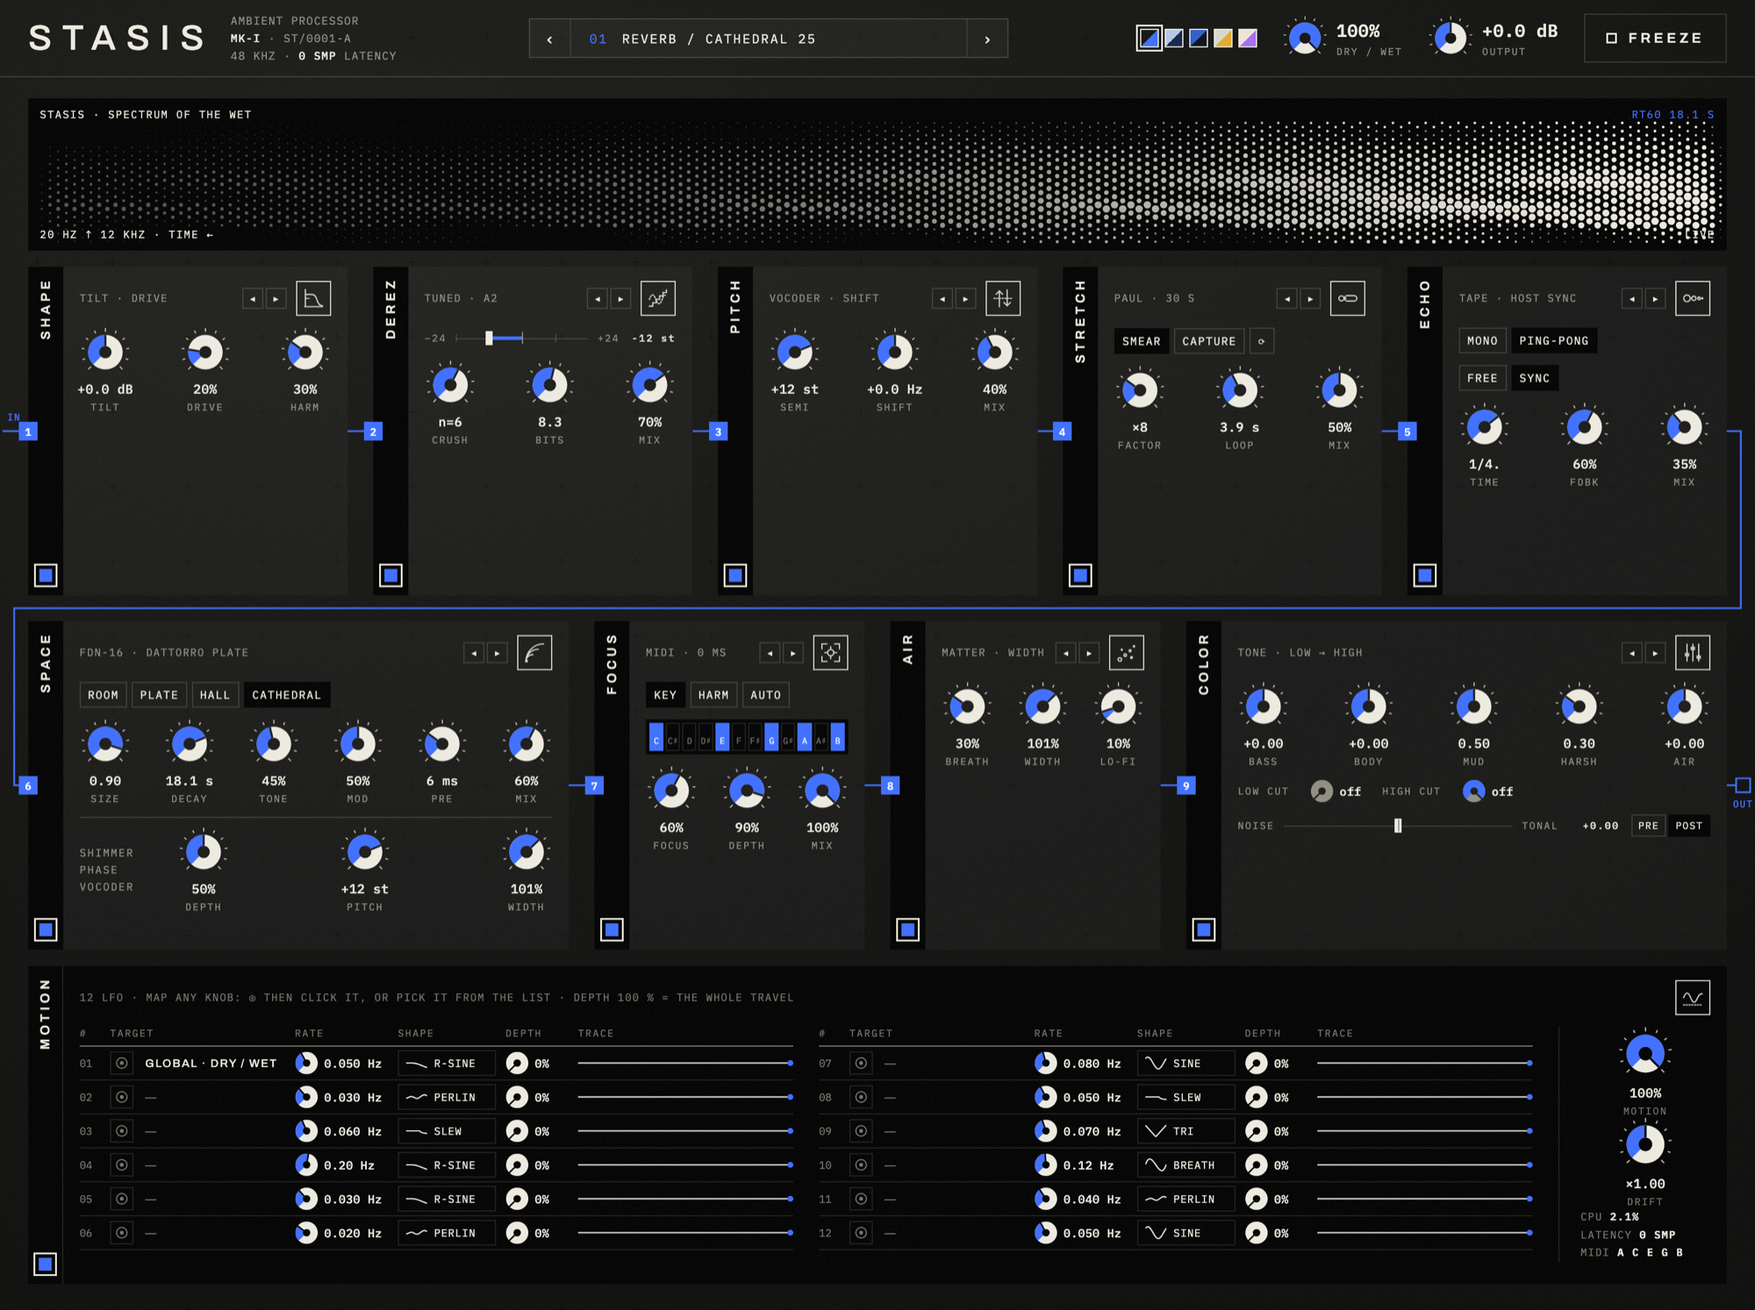
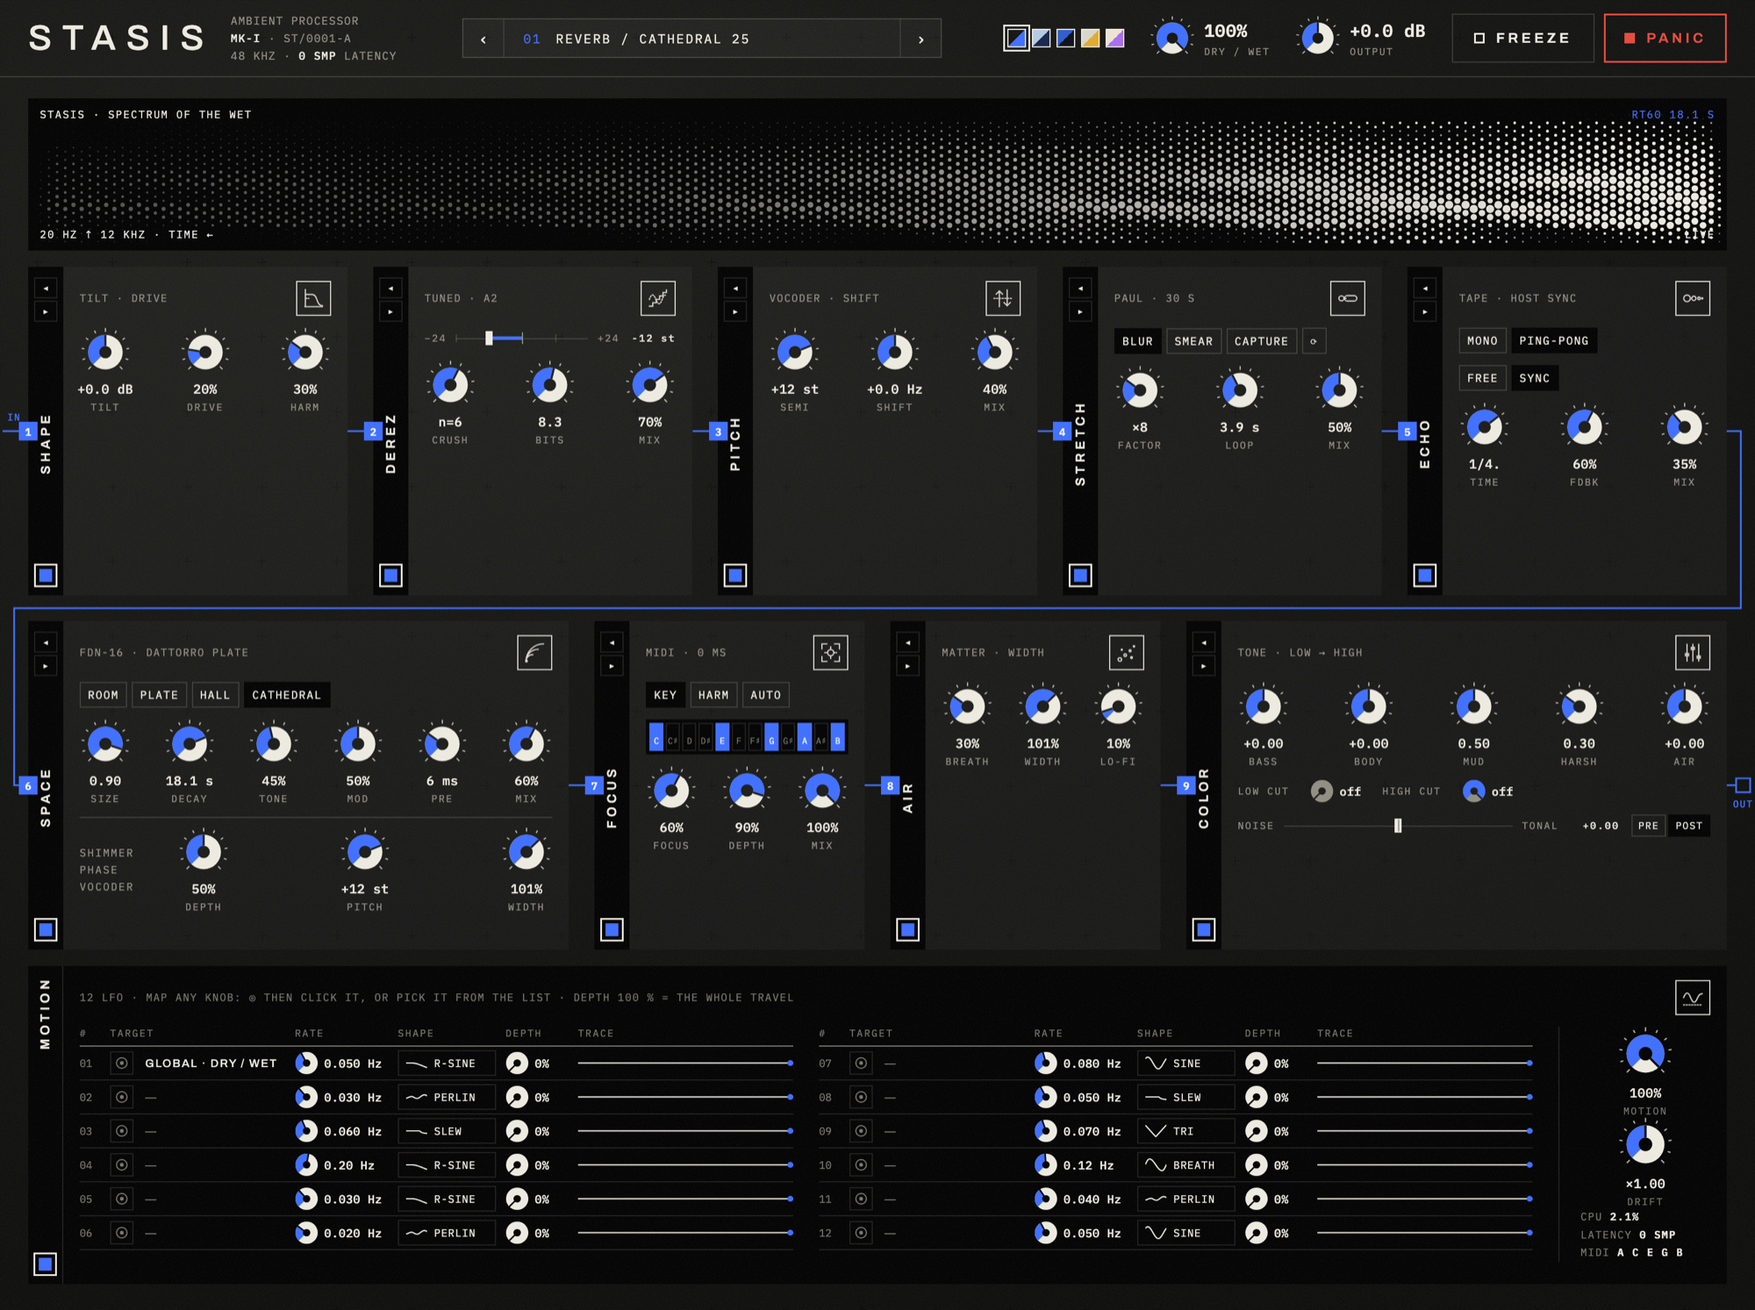
STRETCH BLUR mode, PANIC button, move arrows in the spine
- CaptureStretch BLUR (default): latest window, per-bin power averaged
  over stretch/8 s, random phases: a continuous pad of the present that
  never runs out or jumps. SMEAR and CAPTURE kept
- PANIC: releases FREEZE and rebuilds the engine (all tails, buffers,
  captures and held notes cleared); settings, order and mapping stay
- ◂ ▸ moved to the top of each module's black spine

diff --git a/design/mockup.html b/design/mockup.html
@@ -69,9 +69,10 @@ body::after { content: ""; position: fixed; inset: 0; pointer-events: none; z-in
 .card.dragging { opacity: .35; }
 .card.drop-before { box-shadow: -4px 0 0 var(--accent); }
 .card.drop-after { box-shadow: 4px 0 0 var(--accent); }
-.move { display: flex; gap: 2px; margin-left: auto; }
-.move button { width: 18px; height: 18px; border: 1px solid var(--line); background: none; color: inherit; font: inherit; font-size: 10px; cursor: pointer; line-height: 1; }
-.move button:hover { border-color: currentColor; color: var(--accent); }
+/* ◂ ▸ at the top of the black spine: move the module in the chain */
+.spine .move { display: flex; flex-direction: column; gap: 2px; }
+.spine .move button { width: 20px; height: 18px; border: 1px solid var(--dark-line); background: none; color: var(--on-dark); font: inherit; font-size: 9px; cursor: pointer; line-height: 1; padding: 0; }
+.spine .move button:hover { border-color: var(--accent); color: var(--accent); }
 
 /* ---------- header ---------- */
 /* header = a full-width band pinned to the top edge, so it reads apart from the modules */
@@ -119,6 +120,11 @@ header { display: grid; grid-template-columns: auto 1fr auto; align-items: cente
   font-family: Archivo, sans-serif; font-weight: 600; font-stretch: 100%; font-size: 12px; letter-spacing: .24em; display: flex; align-items: center; gap: 10px; }
 .freeze i { width: 9px; height: 9px; border: 1.5px solid currentColor; display: block; }
 .freeze[aria-pressed="true"] { background: var(--accent); color: var(--accent-ink); }
+/* PANIC: always the same warning red, whatever the theme */
+.panic { height: 42px; padding: 0 16px; border: 1.5px solid #E5483B; background: none; color: #E5483B; cursor: pointer; margin-left: -8px;
+  font-family: Archivo, sans-serif; font-weight: 600; font-size: 12px; letter-spacing: .24em; display: flex; align-items: center; gap: 10px; }
+.panic i { width: 9px; height: 9px; background: currentColor; display: block; }
+.panic:hover, .panic.fired { background: #E5483B; color: #fff; }
 .freeze[aria-pressed="true"] i { background: currentColor; }
 
 /* ---------- cards ---------- */
@@ -275,6 +281,7 @@ body.learning [data-mapid^="m0"], body.learning [data-mapid^="m1"], body.learnin
       <div class="themes" id="themes"></div>
       <div id="globalKnobs" style="display:flex;gap:10px"></div>
       <button class="freeze" id="freeze" aria-pressed="false"><i></i>FREEZE</button>
+      <button class="panic" id="panic" title="Emergency: silence, clear every tail and buffer"><i></i>PANIC</button>
     </div>
   </header>
 
@@ -506,7 +513,7 @@ function stretchModes() {
   const button = grab.firstChild;
   button.onclick = () => { bridge.send('stretch_grab', true); setTimeout(() => bridge.send('stretch_grab', false), 120); glitch(); };
   bridge.register('stretch_grab', 'toggle', () => {});
-  row.append(seg(['Smear', 'Capture'], 0, null, 'stretch_mode'), grab);
+  row.append(seg(['Blur', 'Smear', 'Capture'], 0, null, 'stretch_mode'), grab);
   return row;
 }
 function knobRow(list, opts) { const row = document.createElement('div'); row.className = 'knobs'; list.forEach(k => row.appendChild(knob(k, opts))); return row; }
@@ -581,7 +588,8 @@ const MODS = {
 
 function buildCard(el) {
   const mod = el.dataset.mod, m = MODS[mod], inChain = CHAIN_DEFAULT.includes(mod);
-  el.innerHTML = `<div class="spine" title="${inChain ? 'Drag to move' : ''}"><div class="label">${m.name}</div><button class="power" title="On / off"></button></div><div class="body"></div>`;
+  const arrows = inChain ? '<div class="move"><button title="Earlier in the chain">◂</button><button title="Later in the chain">▸</button></div>' : '';
+  el.innerHTML = `<div class="spine" title="${inChain ? 'Drag to move' : ''}">${arrows}<div class="label">${m.name}</div><button class="power" title="On / off"></button></div><div class="body"></div>`;
   const power = el.querySelector('.power'), powerId = mod + '_on';
   power.onclick = () => { el.classList.toggle('off'); bridge.send(powerId, !el.classList.contains('off')); };
   if (LIVE_MODS.includes(mod)) bridge.register(powerId, 'toggle', on => el.classList.toggle('off', !on));
@@ -590,11 +598,9 @@ function buildCard(el) {
   const top = document.createElement('div'); top.className = 'top';
   top.innerHTML = `<div class="code">${m.code}</div>`;
   if (inChain) {
-    const move = document.createElement('div'); move.className = 'move';
-    move.innerHTML = '<button title="Earlier in the chain">◂</button><button title="Later in the chain">▸</button>';
+    const move = el.querySelector('.spine .move');
     move.children[0].onclick = () => moveModule(mod, -1);
     move.children[1].onclick = () => moveModule(mod, +1);
-    top.append(move);
   }
   top.insertAdjacentHTML('beforeend', icon(mod));
   body.append(top);
@@ -657,7 +663,7 @@ function dragHandle(el) {
   let target = null, after = false;
   const clear = () => document.querySelectorAll('.drop-before, .drop-after').forEach(c => c.classList.remove('drop-before', 'drop-after'));
   spine.addEventListener('pointerdown', e => {
-    if (e.target.closest('.power')) return;
+    if (e.target.closest('.power, .move')) return;
     spine.setPointerCapture(e.pointerId); el.classList.add('dragging');
   });
   spine.addEventListener('pointermove', e => {
@@ -917,6 +923,14 @@ document.addEventListener('click', () => document.querySelector('.preset-menu')?
 document.getElementById('prev').onclick = () => loadPreset(presetIndex - 1);
 document.getElementById('next').onclick = () => loadPreset(presetIndex + 1);
 buildPresetMenu(); showPreset(0, true);
+const panicBtn = document.getElementById('panic');
+panicBtn.onclick = () => {
+  if (bridge.juce) bridge.juce.getNativeFunction('panic')();
+  showFreeze(false);
+  live.spectrum = live.spectrum && live.spectrum.map(() => 0);
+  panicBtn.classList.add('fired'); setTimeout(() => panicBtn.classList.remove('fired'), 400);
+  glitch();
+};
 const freezeBtn = document.getElementById('freeze');
 const showFreeze = on => { if (on !== state.freeze) glitch(); state.freeze = on; freezeBtn.setAttribute('aria-pressed', on); };
 freezeBtn.onclick = () => { showFreeze(!state.freeze); bridge.send('freeze', state.freeze); };

diff --git a/dsp/include/stasis/capture_stretch.h b/dsp/include/stasis/capture_stretch.h
@@ -11,9 +11,12 @@ namespace stasis {
 // played back through PaulStretch frames (long FFT, random phases, sine-window
 // overlap-add, see paul_stretch.h).
 //
-//  SMEAR    the read head follows the live input at 1/stretch speed. When it falls
-//           too far behind, it jumps forward: PaulStretch frames are independent, so
-//           a jump is inaudible.
+//  BLUR     a continuous pad of the present: every frame reads the latest window and
+//           the spectrum is averaged over a memory of stretch/8 seconds (×8 → 1 s,
+//           ×1000 → 2 min). Notes swell in and fade out over that memory; it never
+//           runs out and never jumps.
+//  SMEAR    the read head follows the live input at 1/stretch speed (slow motion of
+//           the past). When it falls too far behind, it jumps forward.
 //  CAPTURE  capture() freezes the last `captureSeconds`; that passage is then
 //           stretched in an endless loop, whatever comes in afterwards.
 //
@@ -31,7 +34,7 @@ namespace stasis {
 // ever does a whole frame's work, so there are no CPU spikes.
 class CaptureStretch {
 public:
-    enum class Mode { Smear, Capture };
+    enum class Mode { Smear, Capture, Blur };
 
     struct Params {
         Mode mode = Mode::Smear;
@@ -53,6 +56,8 @@ public:
             next_[c].assign(size_t(hop_), 0.0f);
         }
         spec_.resize(size_t(size_));
+        blurL_.assign(size_t(size_ / 2), 0.0f);
+        blurR_.assign(size_t(size_ / 2), 0.0f);
         analysis_.resize(size_t(size_));
         synthesis_.resize(size_t(size_));
         double sumSq = 0.0;
@@ -179,7 +184,11 @@ private:
             case 0: {  // read the frame
                 const double inHop = double(hop_) / std::max(1.0f, params_.stretch);
                 long long centre;
-                if (params_.mode == Mode::Capture) {
+                if (params_.mode == Mode::Blur) {
+                    centre = (long long)written_ - size_ / 2;  // the latest full window
+                    const double memory = std::max(0.05, double(params_.stretch) / 8.0);
+                    blurKeep_ = float(std::exp(-double(hop_) / (memory * sampleRate_)));
+                } else if (params_.mode == Mode::Capture) {
                     centre = (long long)capturePos_;
                     capturePos_ += inHop;
                     if (capturedLength_ > 0 && capturePos_ >= double(capturedLength_)) capturePos_ -= double(capturedLength_);
@@ -203,9 +212,22 @@ private:
                     const Fft::Complex a = spec_[size_t(k)], b = std::conj(spec_[size_t(size_ - k)]);
                     const Fft::Complex left = 0.5f * (a + b), right = Fft::Complex(0.0f, -0.5f) * (a - b);
                     const Fft::Complex u = phases_[rng_.next() & (kPhases - 1)];
-                    const float magL = std::abs(left);
-                    const Fft::Complex newL = magL * u;
-                    const Fft::Complex newR = magL > 1.0e-9f ? u * right * std::conj(left) / magL : std::abs(right) * u;
+                    float magL = std::abs(left), magR = std::abs(right);
+                    Fft::Complex newL, newR;
+                    if (params_.mode == Mode::Blur) {
+                        // Power averaged over the memory, per channel; the stereo phase
+                        // difference comes from the current frame.
+                        const size_t kk = size_t(k);
+                        blurL_[kk] = blurKeep_ * blurL_[kk] + (1.0f - blurKeep_) * magL * magL;
+                        blurR_[kk] = blurKeep_ * blurR_[kk] + (1.0f - blurKeep_) * magR * magR;
+                        const float denom = magL * magR;
+                        const Fft::Complex image = denom > 1.0e-12f ? right * std::conj(left) / denom : Fft::Complex(1.0f, 0.0f);
+                        newL = std::sqrt(blurL_[kk]) * u;
+                        newR = std::sqrt(blurR_[kk]) * u * image;
+                    } else {
+                        newL = magL * u;
+                        newR = magL > 1.0e-9f ? u * right * std::conj(left) / magL : magR * u;
+                    }
                     // Pack again: Z[k] = L + iR, Z[N-k] = conj(L) + i·conj(R).
                     spec_[size_t(k)] = newL + Fft::Complex(0.0f, 1.0f) * newR;
                     spec_[size_t(size_ - k)] = std::conj(newL) + Fft::Complex(0.0f, 1.0f) * std::conj(newR);
@@ -241,6 +263,8 @@ private:
     std::vector<float> analysis_, synthesis_;
     std::vector<float> ring_[2], captured_[2], accum_[2], output_[2], next_[2];
     std::vector<Fft::Complex> spec_;
+    std::vector<float> blurL_, blurR_;
+    float blurKeep_ = 0.9f;
     std::array<Fft::Complex, kPhases> phases_{};
     uint64_t written_ = 0, captureFrom_ = 0;
     double readPos_ = 0.0, capturePos_ = 0.0;

diff --git a/plugin/Source/Presets.h b/plugin/Source/Presets.h
@@ -46,7 +46,7 @@ inline const std::vector<Preset>& all() {
                                     {"derez_on", 1}, {"derez_interval", 0.75f}, {"derez_crush", .5f}, {"derez_mix", .5f},
                                     {"space_type", 2}, {"space_decay", .48f}, {"space_mix", .3f}},
          "shape,pitch,stretch,echo,derez,space,focus,air,color"},
-        {"ECHO", "Slow Motion", {{"stretch_on", 1}, {"stretch_factor", .2f}, {"stretch_mix", .5f},
+        {"ECHO", "Slow Motion", {{"stretch_on", 1}, {"stretch_mode", 1}, {"stretch_factor", .2f}, {"stretch_mix", .5f},
                                  {"echo_div", 11 / 13.f}, {"echo_fdbk", .6f}, {"echo_mix", .45f},
                                  {"space_type", 0}, {"space_size", .4f}, {"space_decay", .3f}, {"space_mix", .3f}}},
         {"ECHO", "Shimmer Delay", {{"echo_div", 9 / 13.f}, {"echo_fdbk", .6f}, {"echo_mix", .5f},
@@ -84,7 +84,7 @@ inline const std::vector<Preset>& all() {
         // ------------------------------------------------------------- AMBIENT
         {"AMBIENT", "Glacier", {{"stretch_on", 1}, {"stretch_factor", .43f}, {"stretch_mix", .7f}, {"echo_on", 0},
                                 {"space_type", 3}, {"space_decay", .82f}, {"space_mix", .6f}, {"tonal", .8f}}},
-        {"AMBIENT", "Frozen Orchard", {{"stretch_on", 1}, {"stretch_mode", 1}, {"stretch_factor", .57f}, {"stretch_loop", .41f}, {"stretch_mix", .8f},
+        {"AMBIENT", "Frozen Orchard", {{"stretch_on", 1}, {"stretch_mode", 2}, {"stretch_factor", .57f}, {"stretch_loop", .41f}, {"stretch_mix", .8f},
                                        {"echo_on", 0}, {"space_type", 2}, {"space_decay", .66f}, {"space_mix", .5f}, {"color_air", .6f}}},
         {"AMBIENT", "Dust & Breath", {{"derez_on", 1}, {"derez_interval", 0.5f}, {"derez_crush", .7f}, {"derez_bits", .71f}, {"derez_mix", .3f},
                                       {"echo_on", 0}, {"space_type", 3}, {"space_decay", .71f}, {"space_mix", .6f},
@@ -106,7 +106,7 @@ inline const std::vector<Preset>& all() {
                                    {"echo_sync", 0}, {"echo_time", .95f}, {"echo_fdbk", .5f}, {"echo_mix", .35f},
                                    {"space_type", 3}, {"space_decay", .92f}, {"space_mix", .7f},
                                    {"color_mud", .7f}, {"color_harsh", .5f}}},
-        {"AMBIENT", "Infinite Drone", {{"stretch_on", 1}, {"stretch_mode", 1}, {"stretch_factor", .83f}, {"stretch_loop", .61f}, {"stretch_mix", 1},
+        {"AMBIENT", "Infinite Drone", {{"stretch_on", 1}, {"stretch_mode", 2}, {"stretch_factor", .83f}, {"stretch_loop", .61f}, {"stretch_mix", 1},
                                        {"echo_on", 0}, {"space_type", 3}, {"space_decay", 1}, {"space_mix", .6f},
                                        {"tonal", .7f}, {"tonal_place", 0}}},
     };

diff --git a/plugin/Source/Engine.h b/plugin/Source/Engine.h
@@ -51,6 +51,9 @@ public:
         limiterRelease_ = smoothingCoef(0.15f, sampleRate);
         mute_ = 0;
         needsReset_.store(false);
+        notes_ = NoteSet{};
+        derez_ = PitchedDerez{};
+        focus_ = ResonantFocus{};
         derez_.prepare(sampleRate);
         derez_.setRoot(110.0f);  // A2, when no MIDI note is held
         stretch_.prepare(sampleRate);
@@ -235,7 +238,7 @@ private:
         const int mode = int(v(values, iStretchMode));
         if (changed({iStretchMode, iFactor, iLoop})) {
             CaptureStretch::Params p;
-            p.mode = mode == 1 ? CaptureStretch::Mode::Capture : CaptureStretch::Mode::Smear;
+            p.mode = mode == 2 ? CaptureStretch::Mode::Capture : mode == 1 ? CaptureStretch::Mode::Smear : CaptureStretch::Mode::Blur;
             p.stretch = stretchFactor(v(values, iFactor));
             p.captureSeconds = captureSeconds(v(values, iLoop));
             stretch_.setParams(p);
@@ -243,7 +246,7 @@ private:
         // Switching to CAPTURE, or pressing RECAPTURE, freezes the last LOOP seconds.
         static const int iGrab = indexOf("stretch_grab");
         const bool grab = v(values, iGrab) > 0.5f;
-        if (mode == 1 && ((stretchMode_ != 1 && stretchMode_ != -1) || (grab && !grab_))) stretch_.capture();
+        if (mode == 2 && ((stretchMode_ != 2 && stretchMode_ != -1) || (grab && !grab_))) stretch_.capture();
         stretchMode_ = mode;
         grab_ = grab;
 

diff --git a/plugin/Source/PluginProcessor.cpp b/plugin/Source/PluginProcessor.cpp
@@ -80,9 +80,7 @@ void StasisProcessor::processBlock(juce::AudioBuffer<float>& buffer, juce::MidiB
     if (engine.needsReset() && !resetPending_.exchange(true))
         juce::MessageManager::callAsync([safe = juce::WeakReference<StasisProcessor>(this)] {
             if (safe == nullptr) return;
-            safe->suspendProcessing(true);
-            safe->engine.prepare(float(safe->getSampleRate()));
-            safe->suspendProcessing(false);
+            safe->resetEngine();
             safe->resetPending_.store(false);
         });
 
@@ -93,6 +91,17 @@ void StasisProcessor::processBlock(juce::AudioBuffer<float>& buffer, juce::MidiB
 }
 
 juce::AudioProcessorEditor* StasisProcessor::createEditor() { return new StasisEditor(*this); }
+
+void StasisProcessor::resetEngine() {
+    suspendProcessing(true);  // waits for the audio callback, then keeps it out
+    engine.prepare(float(getSampleRate()));
+    suspendProcessing(false);
+}
+
+void StasisProcessor::panic() {
+    if (auto* freeze = apvts.getParameter("freeze")) freeze->setValueNotifyingHost(0.0f);
+    resetEngine();
+}
 
 juce::StringArray StasisProcessor::getLaneTargets() const {
     juce::StringArray ids;

diff --git a/plugin/Source/Params.h b/plugin/Source/Params.h
@@ -109,7 +109,7 @@ inline const std::vector<Spec>& all() {
         {"derez_mix", "Derez Mix", Kind::Float, 0.7f, {}, pct},
         // STRETCH
         {"stretch_on", "Stretch On", Kind::Bool, 0.0f},
-        {"stretch_mode", "Stretch Mode", Kind::Choice, 0.0f, {"Smear", "Capture"}},
+        {"stretch_mode", "Stretch Mode", Kind::Choice, 0.0f, {"Blur", "Smear", "Capture"}},
         {"stretch_grab", "Stretch Recapture", Kind::Bool, 0.0f},  // a press freezes the last LOOP seconds again
         {"stretch_factor", "Stretch Factor", Kind::Float, 0.3f, {}, [](float t) { return fmt("x%.0f", stretchFactor(t)); }},
         {"stretch_loop", "Stretch Loop", Kind::Float, 0.4f, {}, [](float t) { return fmt("%.1f s", captureSeconds(t)); }},

diff --git a/plugin/Source/PluginEditor.cpp b/plugin/Source/PluginEditor.cpp
@@ -78,6 +78,10 @@ juce::WebBrowserComponent::Options StasisEditor::createOptions(Relays& relays) {
                            if (args.size() >= 2) processor_.setLaneTarget(int(args[0]), args[1].toString());
                            complete(juce::var());
                        })
+                       .withNativeFunction("panic", [this](const juce::Array<juce::var>&, auto complete) {
+                           processor_.panic();
+                           complete(juce::var());
+                       })
                        .withNativeFunction("setOrder", [this](const juce::Array<juce::var>& args, auto complete) {
                            juce::StringArray names;
                            if (!args.isEmpty())

diff --git a/plugin/Source/PluginProcessor.h b/plugin/Source/PluginProcessor.h
@@ -41,6 +41,11 @@ public:
 
     // MOTION mapping: the parameter id each of the 12 lanes moves ("" = none).
     juce::StringArray getLaneTargets() const;
+
+    // PANIC: silence now, flush every tail and buffer (reverb, echo, stretch, capture,
+    // held notes), release FREEZE. Settings, order and mapping stay. Message thread.
+    void panic();
+    void resetEngine();  // flush only (used by panic and by the NaN guard)
     void setLaneTarget(int lane, const juce::String& id);  // ignores ids MOTION may not move
 
     juce::AudioProcessorValueTreeState apvts;

diff --git a/PLAN.md b/PLAN.md
@@ -500,6 +500,10 @@ Règle : **chaque phase se termine par des écoutes et des mesures** (CPU, IR, n
   - MOTION assignable : 12 lignes vides par défaut (sauf la 1, sur le DRY / WET global), cible choisie dans une liste par module ou par TOUCH (armer, puis cliquer un potard) ; assignations sauvegardées avec l'état ;
   - DEPTH = part de la course totale du potard : valeur = réglage + depth × (lfo − réglage) ;
   - plus de sélection de texte dans l'interface ; cartes alignées sur le visualiseur et MOTION, fil de chaîne dans les marges.
+- **v0.5** :
+  - STRETCH : mode BLUR (défaut), un pad continu du présent, spectre moyenné sur FACTOR/8 secondes ; SMEAR et CAPTURE restent ;
+  - bouton PANIC ;
+  - flèches ◂ ▸ dans la tranche noire de chaque module.
 - **Reste à faire** :
   - embarquer les polices (aujourd'hui chargées depuis Google Fonts : sans réseau, l'interface passe sur des polices de secours).
 
